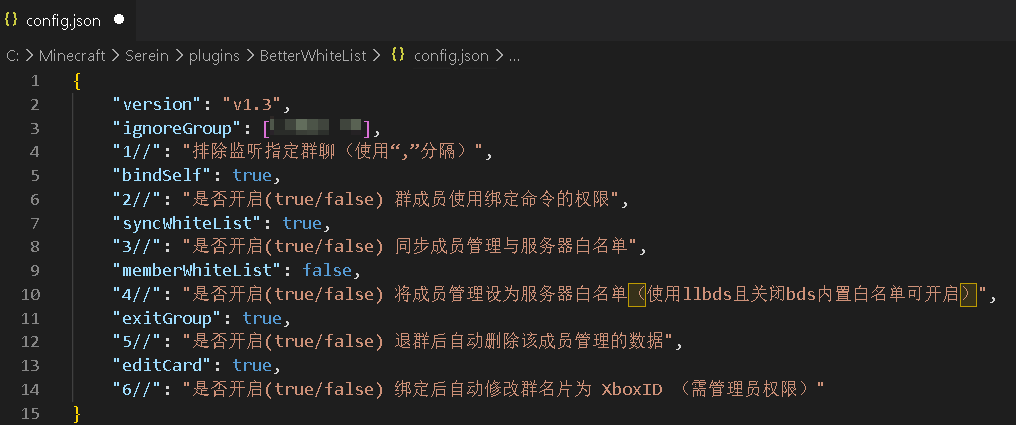
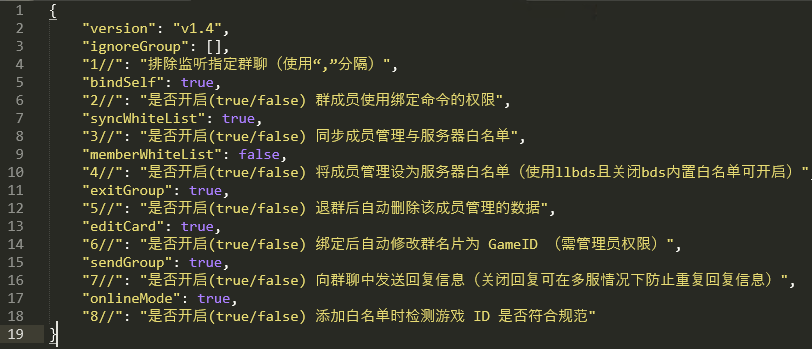
update BettherWhitelist

diff --git a/Extension/JS/BetterWhitelist.md b/Extension/JS/BetterWhitelist.md
@@ -3,73 +3,89 @@
 |   **作者**   | 9Yan                  |
 | :----------: | :-------------------- |
 |   **介绍**   | 更完善的白名单方案    |
-| **更新日期** | 2023.2.3 v1.3         |
+| **更新日期** | 2023.2.26 v1.4        |
 |   **下载**   | [历史版本](#历史版本) |
 
 > [!WARNING] 此插件最低支持版本为 Serein `v1.3.3`  
-> 在 `v1.3.3` 及以前版本 解绑 返回值有误，可以解绑但不会显示返回值  
-> 低版本可能存在未知 bug
+> 已知在 `v1.3.3` 及以前版本 解绑 返回值有误，可以解绑但不会显示返回值  
+> 低版本未经测试，可能存在未知 bug
 
 ## 功能
 
-- 手动、自动**同步 Serein 的成员管理 与 服务器白名单**（关服时也能绑定，可选择是否开启）
-- 群成员使用群命令 **绑定/解绑自己的成员管理**（可选择是否开启）
-- Serein 管理权限列表的管理使用群命令 **绑定/解绑其他人的成员管理**
-- **将 Serein 成员管理设为服务器白名单**（使用 llbds 且关闭 bds 内置白名单可开启）
-- 退群后自动删除该成员管理的数据（可选择是否开启）
-- 绑定后自动修改群名片为 XboxID （需管理员权限，可选择是否开启）
-- 排除监听指定群聊，可以单独开个服务器玩家群用于管理玩家
-- 监测服务器启动自动同步白名单，关服也能增删白名单
+-   手动、自动 **同步 Serein 的成员管理 与 服务器白名单**_（关服时也能绑定，可选择是否开启）_
+-   群成员发送消息 **绑定/解绑自己的成员管理**_（可选择是否开启）_
+-   群管理发送消息 **添加/删除其他人的成员管理** _（管理为 Serein 管理权限列表的）_
+-   **将 Serein 成员管理设为外置服务器白名单**_（使用 llbds 且关闭 bds 内置白名单可开启）_
+-   退群后自动删除该成员管理的数据*（可选择是否开启）*
+-   绑定后自动修改群名片为 XboxID*（需管理员权限，可选择是否开启）*
+-   排除监听指定群聊，可以单独开个服务器玩家群用于管理玩家
+-   服务器启动时自动同步成员管理，关服也能增删白名单
+-   ...
 
 ## 使用方法
 
-- 群成员发送：`绑定 xboxID`
-- 使自己 QQ 与该游戏 id 绑定，并获得白名单（可选择是否开启）
-- 相同关键词：bind（大小写随意)
-- 群成员发送：`解绑`
-- 使自己 QQ 与已绑定游戏 id 解绑，并删除白名单（可选择是否开启）
-- 相同关键词：unbind（大小写随意）
+### 绑定
+
+-   群成员发送：`绑定 xboxID`
+-   使自己 QQ 与该游戏 id 绑定，并获得白名单*（可选择是否开启）*
+-   相同关键词：`bind`
+
+### 解绑
+
+-   群成员发送：`解绑`
+-   使自己 QQ 与已绑定游戏 id 解绑，并删除白名单（可选择是否开启）
+-   相同关键词：`unbind`
 
 ![1](BetterWhitelist/1.png ":size=300")
 
-- 管理员发送：`添加白名单 QQ 号(@成员) xboxID`
-- 使该 QQ 与游戏 id 绑定，并获得白名单
-- 相同关键词：wladd、whitelistadd（大小写随意）
-- 管理员发送：`删除白名单 QQ 号(@成员) xboxID`
-- 使该 QQ 与游戏 id 绑定，并获得白名单
-- 相同关键词：wldel、whitelistdelete（大小写随意）
+### 添加白名单
+
+-   管理员发送：`添加白名单 QQ 号(@成员) xboxID`
+-   使该 QQ 与游戏 id 绑定，并获得白名单
+-   相同关键词：`wladd`、`whitelistadd`
+
+### 删除白名单
+
+-   管理员发送：`删除白名单 QQ 号(@成员) xboxID`
+-   使该 QQ 与游戏 id 绑定，并获得白名单
+-   相同关键词：`wldel`、`whitelistdelete`
 
 ![2](BetterWhitelist/2.png ":size=300")
 
-- 管理员发送：`白名单列表`
-- 列出 Serein 成员管理列表，并显示是否添加服务器白名单
-- 相同关键词：wllist、whitelist（大小写随意）
+### 白名单列表
+
+-   管理员发送：`白名单列表`
+-   列出 Serein 成员管理列表，并显示是否添加服务器白名单
+-   相同关键词：`wllist`、`whitelist`
 
 ![3](BetterWhitelist/3.png ":size=300")  
 ![4](BetterWhitelist/4.png ":size=300")
 
-- 管理员发送：`同步白名单`
-- 以 Serein 成员管理为准，自动添加/删除服务器白名单。
-- 相同关键词：syncwl、syncwhitelist（大小写随意）
+### 同步白名单
+
+-   管理员发送：`同步白名单`
+-   以 Serein 成员管理为准，自动添加/删除服务器白名单。
+-   相同关键词：`syncwl`、`syncwhitelist`
 
 ![5](BetterWhitelist/5.png ":size=300")
 
 ## 特征
 
-- 完善的白名单增删逻辑
+拥有完善的白名单增删逻辑及各种防呆设计
 
 ![6](BetterWhitelist/6.png ":size=300")
-
-- 各种防呆设计
-
 ![7](BetterWhitelist/7.png ":size=300")
 
 ## 配置文件
 
-- 3 与 4 选一个开即可
+-   3 与 4 选一个开即可
 
 ![8](BetterWhitelist/8.png)
 
 ## 历史版本
 
-- 2023.2.3 [v1.3](https://download.serein.cc/https://raw.githubusercontent.com/Zaitonn/Serein-Docs/publish/JS/BetterWhitelist/v1.3/BetterWhitelist.js)
+-   2023.2.26 [v1.4](https://download.serein.cc/https://raw.githubusercontent.com/Zaitonn/Serein-Docs/publish/JS/BetterWhitelist/v1.4/BetterWhitelist.js)
+-   2023.2.3 [v1.3](https://download.serein.cc/https://raw.githubusercontent.com/Zaitonn/Serein-Docs/publish/JS/BetterWhitelist/v1.3/BetterWhitelist.js)
+-   2023.2.3 [v1.2](https://download.serein.cc/https://raw.githubusercontent.com/Zaitonn/Serein-Docs/publish/JS/BetterWhitelist/v1.2/BetterWhitelist.js)
+-   2023.1.18 [v1.1](https://download.serein.cc/https://raw.githubusercontent.com/Zaitonn/Serein-Docs/publish/JS/BetterWhitelist/v1.1/BetterWhitelist.js)
+-   2023.1.18 [v1.0](https://download.serein.cc/https://raw.githubusercontent.com/Zaitonn/Serein-Docs/publish/JS/BetterWhitelist/v1.0/BetterWhitelist.js)
